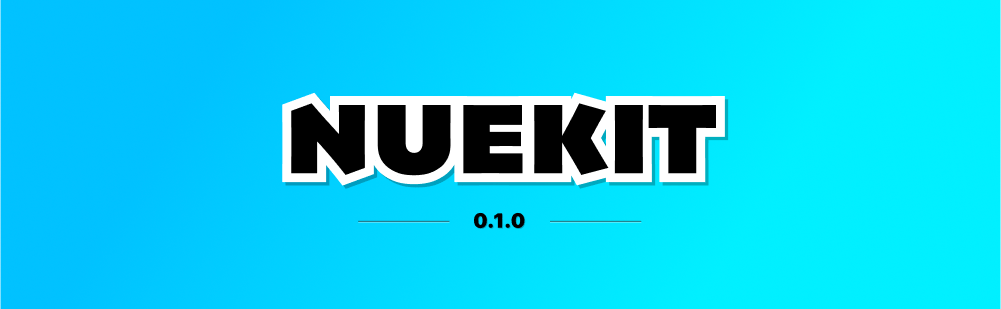
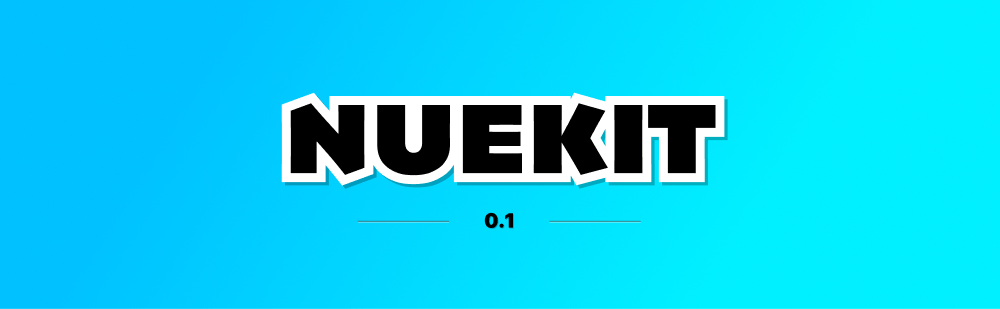
Cleanup work after the announcement

diff --git a/blog/nuekit-010/index.md b/blog/nuekit-010/index.md
@@ -1,17 +1,18 @@
 
 ---
 date: 2023-12-12
-og: /img/nuekit-hero-big.png
+og: /img/nuekit-hero-big.jpg
 include: [bunny/video, syntax]
-title: Announcing Nuekit 0.1.0
-release: nuekit 0.1.0
+title: Announcing Nuekit 0.1
+desc: A simple, minimalistic alternative to Next.js and Astro with universal hot-reloading and much more.
+release: nuekit 0.1
 thumb: nuekit-thumb.jpg
 ---
 
 
 [media]
-  small: /img/nuekit-hero.png
-  large: /img/nuekit-hero-big.png
+  small: /img/nuekit-hero.jpg
+  large: /img/nuekit-hero-big.jpg
   class: blog-hero
 
 
@@ -81,6 +82,7 @@ Nue is in order of magnitude faster than its cousins. An identical blogging site
 - [Standards-based development model](/docs/why-nue/closer-to-standards.html)
 - [Improved website performance](/docs/why-nue/website-performance.html)
 
+
 ### New, beautiful documentation area
 With lots of explainer images and -videos:
 
@@ -110,15 +112,24 @@ Check out our [Getting Started guide](/docs/) to learn the details
 
 
 [media]
-  small: /img/roadmap.png
-  large: /img/roadmap-big.png
+  small: /img/roadmap2.png
+  large: /img/roadmap2-big.png
   class: tall
 
 Nue was first announced last September with [this backstory](/blog/backstory/). Only [Nue JS](//github.com/nuejs/nue) was available on GitHub, and the bigger picture was just an idea. Now, with today's Nuekit release, you can finally build real-world applications with Nue and see more clearly what the future holds.
 
 
+### Monorepo
+The "nuejs" GitHub repository was renamed to [nue](//github.com/nuejs/nue) and has been converted to a monrepo, now holding both [nuejs](//github.com/nuejs/nue/tree/master/packages/nuejs) and [nuekit](//github.com/nuejs/nue/tree/master/packages/nuekit) packages. This monorepo will hold all the upcoming Nue-related projects like *Nuemark* and *Nue CSS*.
+
+
+If you want, we can send you an email when a new milestone is reached:
+[join-list]
 
 ## Thank you!
 Finally, I’d like to give a huge thanks to the [20+ developers](//github.com/nuejs/nue/graphs/contributors) who have participated in the early development of Nue JS. Your feedback has been essential in shaping Nue into the tool it is today. If you’re interested in getting involved please join the [Discussion @ Github](//github.com/nuejs/nue/discussions)
 
 
+### Discussion @ HN
+
+https://news.ycombinator.com/item?id=38611048

diff --git a/blog/tailwind-vs-semantic-css/index.md b/blog/tailwind-vs-semantic-css/index.md
@@ -211,11 +211,17 @@ Because mastering CSS requires practice. It takes several failed attempts before
 
 The fact is that Tailwind's popularity will eventually fade. CSS-in-JS is trending now, but standards are forever. At some point, we'll all experience a "WTF moment" when looking at the tightly coupled Tailwind code.
 
-- - -
 
-## 🎁 Christmas is coming
-Nue is released before Christmas eve. Receive an email when that happens:
+### What is Nue?
+*Nue* is the umbrella term for all Nue-related projects. It's a rather ambitious project to build a simpler and more powerful alternative to services like *Vercel*, *Gatsby*, and *Nelify*.
 
+
+[media]
+  small: /img/roadmap2.png
+  large: /img/roadmap2-big.png
+  class: tall
+
+If you want, we can send you an email when a new milestone is reached:
 [join-list]
 
 

diff --git a/docs/tutorials/build-a-simple-blog.md b/docs/tutorials/build-a-simple-blog.md
@@ -83,9 +83,9 @@ Let's add a new file to our project folder called "blog.css", which will take ca
 <link href="/blog.css" rel="stylesheet">
 ```
 
-Now, as you edit either of your files (blog.css or index.md) on your text editor you can see the browser magically morphing with your changes:
+Now, as you edit either of your files (blog.css or index.md) on your text editor you can see the browser magically morphing with your changes.
 
-! video: completing the page the first page
+// TODO: video: completing the page the first page
 
 Instead of making a full reload, Nue uses a technique called **DOM diffing** to only update the parts on the page that have changed. Be it the content, metadata, styling, global headers and footers, page layouts, or reactive components.
 

diff --git a/index.md b/index.md
@@ -23,8 +23,8 @@ include: [home, bunny/video]
 The goal of Nue is to become a simpler and more powerful alternative to **Vercel**, **Gatsby**, and **Netlify**.
 
 [media]
-  small: /img/roadmap.png
-  large: /img/roadmap-big.png
+  small: /img/roadmap2.png
+  large: /img/roadmap2-big.png
   class: roadmap
   width: 850
 

diff --git a/faq/index.md b/faq/index.md
@@ -12,8 +12,8 @@ include: [longform, permlink]
 
 
 [media]
-  small: /img/roadmap.png
-  large: /img/roadmap-big.png
+  small: /img/roadmap2.png
+  large: /img/roadmap2-big.png
   class: tall
 
 
